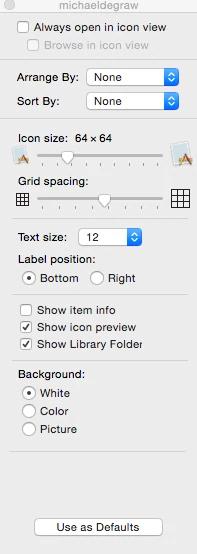
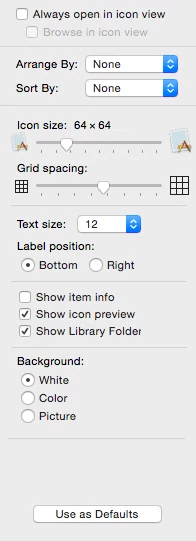
Getting rid of my name in Library Folder post

Changed region(s): [[0.0612, 0.0, 0.9184, 0.7985], [0.1531, 0.9168, 0.7959, 0.976], [0.8571, 0.2366, 0.9796, 0.3845]]

diff --git a/_posts/2015-03-19-libraryfolder.md b/_posts/2015-03-19-libraryfolder.md
@@ -8,7 +8,7 @@ I literally just discovered something. First, that I don't know how to correctly
 
 Also...
 
-To show the 'library' folder in osx, navigate to your home folder (for me its michaeldegraw) right click on some empty space, click "show view options" from the popup menu, then you will see a check box for "Show library Folder".
+To show the 'library' folder in osx, navigate to your home folder, right click on some empty space, click "show view options" from the popup menu, then you will see a check box for "Show library Folder".
 
 
 
